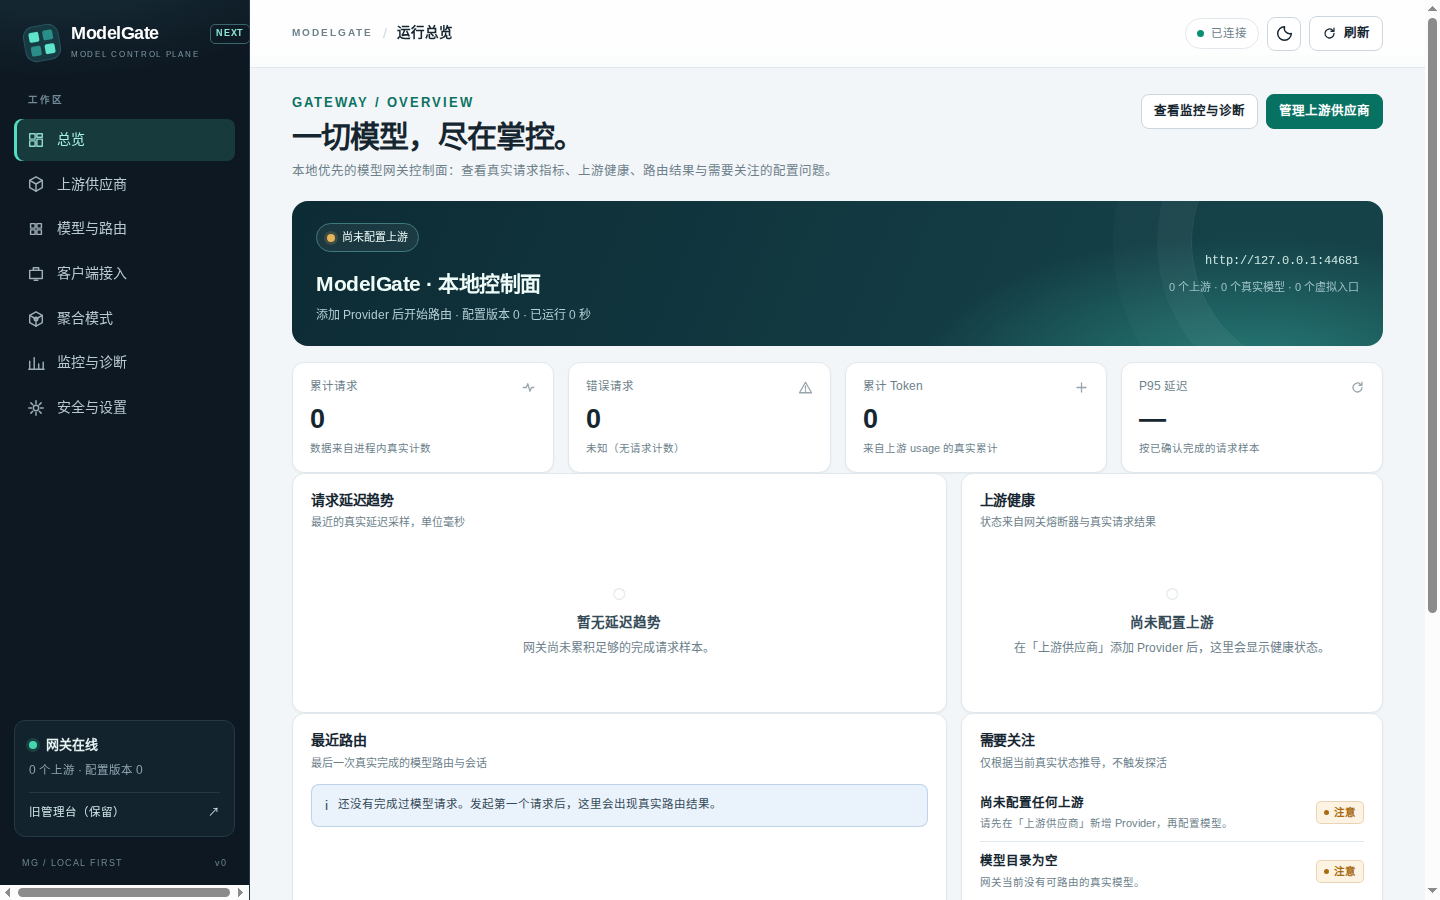
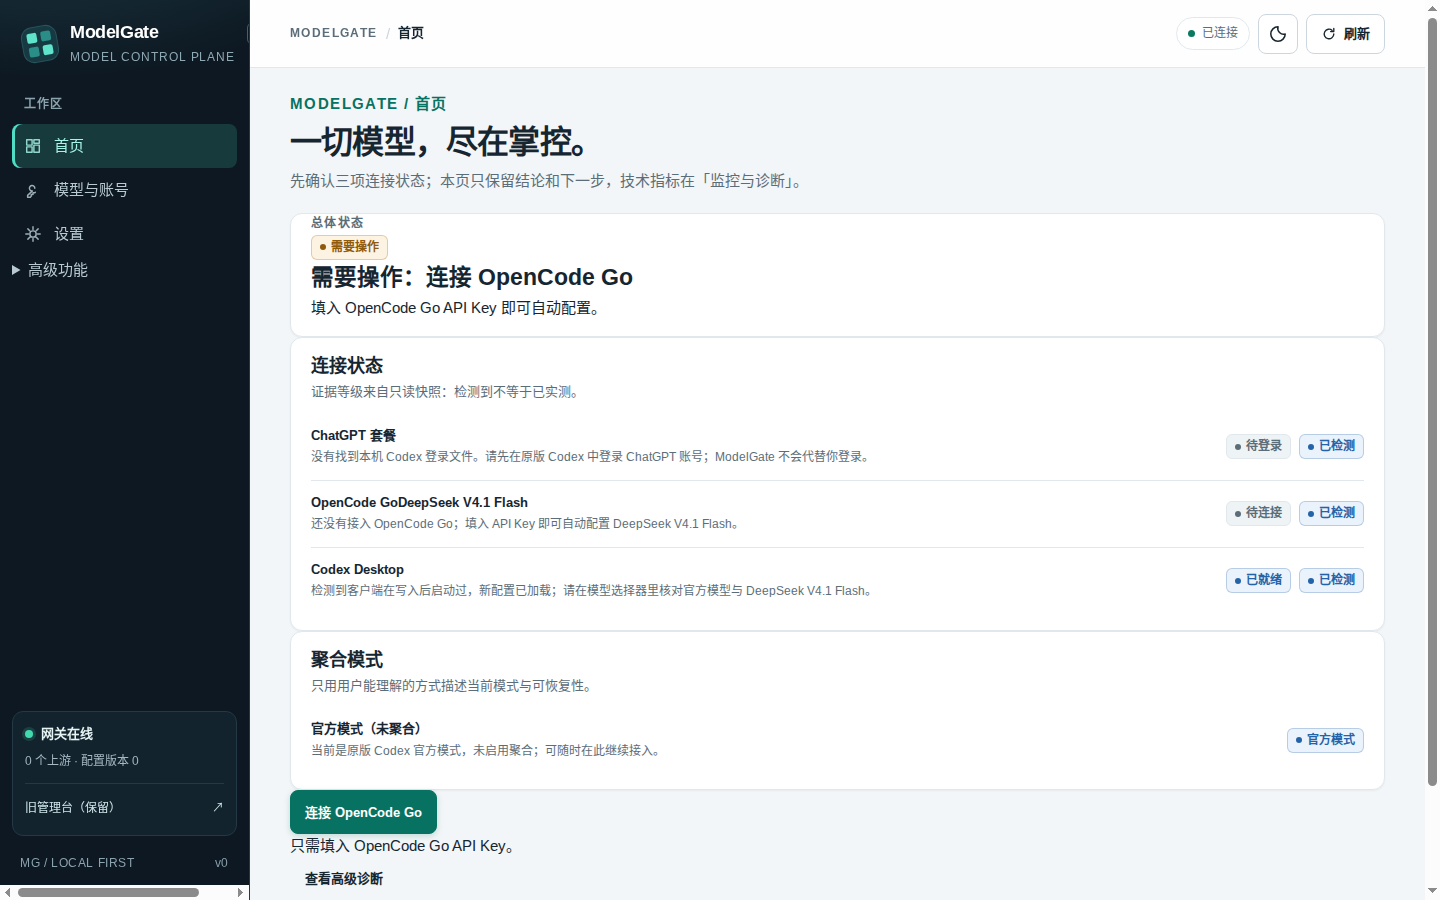
docs(ux-v3): 同步 API 契约、适配矩阵、CHANGELOG 与开发计划
- management-api-v1：/api/status.official 只读字段与不得回显凭据的边界
- ui-next-api-matrix：新增 V3 首页/模型与账号映射（状态来源、证据等级、向导与启停）
- CHANGELOG：记录前端 V3 交付与行为变更
- development-plan：UX-00..UX-06 状态与真实边界

diff --git a/CHANGELOG.md b/CHANGELOG.md
@@ -2,6 +2,27 @@
 
 本项目所有显著变更记录于此。格式参考 Keep a Changelog；版本号随发布推进（`package.json` 已随 0.2.3 同步）。
 
+## [Unreleased] —— 2026-11-15 前端体验 V3（UX-00…UX-06，开发分支）
+
+### Added — 前端 V3（`feat/modelgate-ux-v3`，非发布）
+
+- **产品状态投影 `mg-ui-product-status/1`**（`src/ui-next/js/product-status.js`）：把 `/api/status` 与四个 `/api/aggregation/*` 只读接口组合成单一 ProductStatus；首页、连接向导、聚合详情、状态层共用同一判定与唯一主 CTA。证据等级 `detected/configured/runtime-verified/not-tested/unknown` 显式可见；`runtime-verified` **只**在 `/api/status.lastServing` 真实命中 Go 目标模型时成立。
+- **`GET /api/status` 新增只读 `official`**：`{credential,expiry,reason,authMode,level,source,checkedAt}`。只读探测 `auth_mode=chatgpt`、token 存在性与 JWT `exp`；不刷新、不发请求、**不返回任何凭据**；无法判定时为 `unknown`。
+- **`#/connections` 单页引导**：只填 OpenCode Go API Key → 服务端 preset 自动注册 `opencodego` → 写 Key → 同步 → 428 预览 → 一次确认 → 原子写入 → 重启提示 → 退出恢复。高级 ID/URL/env 折叠在"高级设置"。部分成功、409 三方差异、401/429/404 均如实展示。
+- **普通/高级分层导航**：主分区（首页 / 模型与账号 / 设置）+ 默认收起的"高级功能"（上游供应商 / 模型与路由 / 客户端接入 / 聚合详情 / 监控与诊断）；7 个旧 hash 路由与 `/`、`/admin` 全部保留。
+- **状态一致性**：共享快照 + epoch/AbortController + freshness 预算；旧响应不覆盖新状态，并发请求合并，401 清快照与敏感 DOM，403 只进局部错误，弹窗/草稿不被轮询重建。
+- **设计与可访问性**：设计令牌、明暗主题、正文 15px/最小 12px、按钮 ≥40px（主 CTA 44px）、`:focus-visible`、`prefers-reduced-motion`、360/768/1440 断点、`statusRow/primaryAction/stepper/formField` 组件、dialog Escape+焦点圈定+焦点归还。
+
+### Changed
+
+- `POST /api/aggregation/providers` 透传 `preset`（`{"preset":"opencode-go"}` 可省略 id/baseUrl/apiKeyEnv）；内联 `apiKey` 仍被 registry 拒绝，Key 只能经 `POST /api/keys`。
+- `views/aggregation.js` 技术长表收进"高级详情"，删除 V1 Console 全量话术；既有 9 个导出与 `#/aggregation` 深链不变。
+
+### Notes
+
+- 本轮**零**真实 Go/GPT 模型调用（无付费授权）；真实推理与真实 Desktop 交互标 `BLOCKED`。真实 GPT 仍只允许 `gpt-6-luna`，Go 仍只 `deepseek-v4.1-flash`。
+- 新增测试：`ui-product-status`、`ui-v3-home`、`ui-v3-connections`、`ui-v3-state`、`ui-v3-visual`、`ui-v3-acceptance`；浏览器证据脚本 `scripts/e2e/ui-v3-browser.mjs`（复用本机 Chrome，无新依赖）。
+
 ## [Unreleased] —— 2026-11-15 V2 代码交付（P01–P04，离线可证）
 
 ### Added

diff --git a/docs/contracts/ui-next-api-matrix.md b/docs/contracts/ui-next-api-matrix.md
@@ -25,6 +25,23 @@
 | 缓存提醒 | `GET /api/status` | `cache.alert` | PASS（有值才显示） |
 | 关注项 | 派生 | 缺 Key、熔断、空目录、未启令牌、错误率 | PASS（页面标注“仅根据当前状态推导，不触发探活”） |
 
+## 2.1 首页 / 模型与账号（V3，2026-11-15）
+
+V3 把首页改为**状态驱动**：技术指标全部移到「监控与诊断」，首页只保留总体结论、三条连接状态与唯一主操作。状态判定不在视图里各自解释，统一走 `src/ui-next/js/product-status.js`（契约 `mg-ui-product-status/1`，见 [ui-v3-product-status.md](ui-v3-product-status.md)）。新增 `#/connections` 单页向导（`views/connections.js`）。
+
+| 首页/向导显示 | API 来源 | 关键字段 | 等级 |
+| --- | --- | --- | --- |
+| ChatGPT 套餐 | `GET /api/status` | `official.credential/expiry/reason` | `detected` 级（只读探测，不含 token） |
+| OpenCode Go | `GET /api/status` + `GET /api/aggregation/{providers,models}` | `providers[].hasKey`、`models[].publicId/upstreamId` | `detected`→`configured`→仅真实 `lastServing` 命中才 `runtime-verified` |
+| Codex Desktop | `GET /api/aggregation/health` | `detect.desktop/bundledCli/cli`、`detect.restart` | `detected`（缺 detect 即 unknown） |
+| 聚合模式 | `GET /api/aggregation/health` | `mode`、`backup.available`、`activation.appliedSha`、`nativeCompaction` | `detected`（不可识别即 unknown，不写成"未启用"） |
+| 连接 Go（单字段） | `POST /api/aggregation/providers` → `POST /api/keys` → `POST /api/aggregation/providers/opencodego/sync` | `{preset:'opencode-go'}` 省略 ID/URL/env；Key 只进 `/api/keys` | 每步可重试；部分成功如实显示 |
+| 启用聚合 | `POST /api/aggregation/activate` | 428 `preview`（`consentToken/expectedSha/blocked`）→ 带 consent 再提交 → 200 回执 `reload/needsRestart` | 409 只展示三方差异，不覆盖 |
+| 退出并恢复 | `POST /api/aggregation/deactivate` | `{expectedSha}` → 200 回执 | 二次确认后执行，失败如实报错 |
+| 刷新/切换页面一致性 | 共享快照（`store.refreshProduct`） | epoch + AbortController + freshness 预算 | 旧响应不覆盖新状态；401 清空、403 局部错误 |
+
+状态：离线/契约层 `PASS(mock)`；真实浏览器 `PASS(browser, mocked gateway)`（见 `docs/evidence/2026-11-15-ux-v3-a5-acceptance.md`）；真实 Go/GPT 推理与真实 Desktop 交互仍 `BLOCKED`（未授权付费调用）。
+
 ## 3. Providers｜上游供应商
 
 | UI 操作 | API | 请求 | 返回 / 错误 | 状态 |

diff --git a/docs/development-plan.md b/docs/development-plan.md
@@ -6,6 +6,22 @@
 
 基线日期：2026-11-08。**新增大型安装/下载：无；历史提议仅供研究，不自动执行。** 资源执行遵守 [RESOURCE_APPROVAL.md](../RESOURCE_APPROVAL.md)。范围：在现有 Node 内置模块架构上提升 Chat 网关的安全性、资源边界、协议一致性和可维护性，再扩展其他模型能力。下表是后续任务状态唯一来源；历史 phase 计划仅作需求来源。计划不是未来所有需求的承诺，新增需求先补契约与验收。
 
+## 2026-11-15 前端体验 V3（UX-00…UX-06）
+
+执行计划：[前端体验 V3 执行计划](roadmap/2026-11-15-frontend-experience-v3-execution-plan.md)。契约：[产品状态投影与模块契约](contracts/ui-v3-product-status.md)。基线审计：[UX-00 基线](roadmap/2026-11-15-ux-v3-ux00-baseline.md)。分支 `feat/modelgate-ux-v3`（从 `origin/mg-codex-native@708cf5e` 新建，5 个子代理独立工作树；未合并 `main`、未改 PR #7）。
+
+| 阶段 | 交付 | 状态 |
+| --- | --- | --- |
+| UX-00 | 状态机/证据等级/接口来源/错误矩阵 + 只读 `official` 投影 + 20 例契约测试 | PASS(offline) |
+| UX-01 | 状态驱动首页、唯一主 CTA、三条连接状态、分层导航、旧深链保留 | PASS(offline) / 浏览器见 A5 |
+| UX-02 | 单字段 Go 向导、预设 provider、部分成功如实、Key 不回显 | PASS(offline) |
+| UX-03 | 428 预览→一次确认→consent→回执；409 三方差异不覆盖；退出恢复 | PASS(offline)（真实 Desktop 写链 BLOCKED） |
+| UX-04 | 共享快照、epoch/abort、freshness、401/403/409/断网 | PASS(offline) |
+| UX-05 | 设计令牌、响应式、键盘/读屏、组件语义 | PASS(offline + 浏览器断言) |
+| UX-06 | 独立黑箱验收、CDP 浏览器脚本、证据与反降级审查 | 见 A5 验收记录 |
+
+真实边界：本轮 **0** 次真实 Go/GPT 调用（无付费授权），真实推理/真实 Desktop 交互标 `BLOCKED`；`release:freeze` 属 V2 发布门禁，不因 UI 改动放行；新分支需重新冻结与再验收后才可谈合并。
+
 ## 2026-11-15 V2 收尾复核
 
 裁决与当前发布限制见[ModelGate V2 发布裁决](evidence/aggregation-v2-release-verdict-2026-11-15.md)。PR #7 仍为 Draft；发布审批 JSON 为空，`release:freeze` 仍因待批事项阻断。状态矩阵中的 12 行 `PASS_REAL` 是按各自真实采集树保留的证据状态，不表示最终冻结树 `12cf5d97a60f151af59c731e26b71245a50e5169` 上每个子用例均已重现。不得改回执、审批文件、矩阵、哈希或产品契约来消除阻断。

diff --git a/docs/contracts/management-api-v1.md b/docs/contracts/management-api-v1.md
@@ -49,6 +49,8 @@
 ### `GET /api/status`
 响应即状态快照，字段见第 4 节。所有模型/上游统计与掩码 Key 元数据都在此聚合，前端只读。
 
+**V3 新增只读字段 `official`（2026-11-15）**：`{credential:'detected'|'missing'|'unknown', expiry:'valid'|'expired'|'unknown', reason, authMode, level:'detected'|'unknown', source:'local_codex_auth_probe', checkedAt}`。来源是只读的 `probeLocalCodexAuth()`（判定 `auth_mode==='chatgpt'` 且 token 存在）与只读的 `readSubscriptionCredential()`（解析 JWT `exp` 判过期，**不刷新、不发请求**）。任何取值为"读不到/无法判定"（HOME 不可解析、文件不可读/超大/损坏）时必须为 `unknown`，不得报 `missing`；**永不返回、记录或回显 token、account id 或文件正文**。前端只允许把它当作 `detected` 级证据，不得显示成"官方推理已验证"（真实推理证据只能来自 `lastServing`）。回归：`scripts/test/offline/ui-product-status.test.mjs`。
+
 ### `GET /api/config`
 
 只读配置投影（MG-009 D-6）：返回 `{ configVersion, providers, models, defaults, virtualModels }`，形状与 `POST /api/config/save` 的请求体一致，可直接“读 → 改 → 保存”。不含运行时统计/探针字段（providers 的 hasKey/keySource/keyOk/st/probe、models 的 probe/requests/errors/tokens/today/hitRate/affinity/avgMs 等），不返回 `_keys`/`_paths`；`defaults.clientKey` 在 `keys.__mg_client` 或旧明文存在时固定回显 `********`（只检查 defaults 会导致永远为空、前端误判未设置）；`virtualModels[*]` 回显 `expiresAt`/`note`（存于 `keys.__mg_vm_meta_<name>`，不回显则一次保存会误清空），并额外返回后端判定的 `expiresAtState`（`none`/`valid`/`expired`/`invalid`）与 `expiresAtMs`（无效时另带 `expiresAtDiagnostic` 码）；前端只展示状态，不自行比较时间；未知扩展字段按原样返回。鉴权与错误信封同其它管理 GET（401/403）。回归见 `scripts/test/offline/config-projection.test.mjs`、`scripts/test/offline/ui-contract.test.mjs`。
